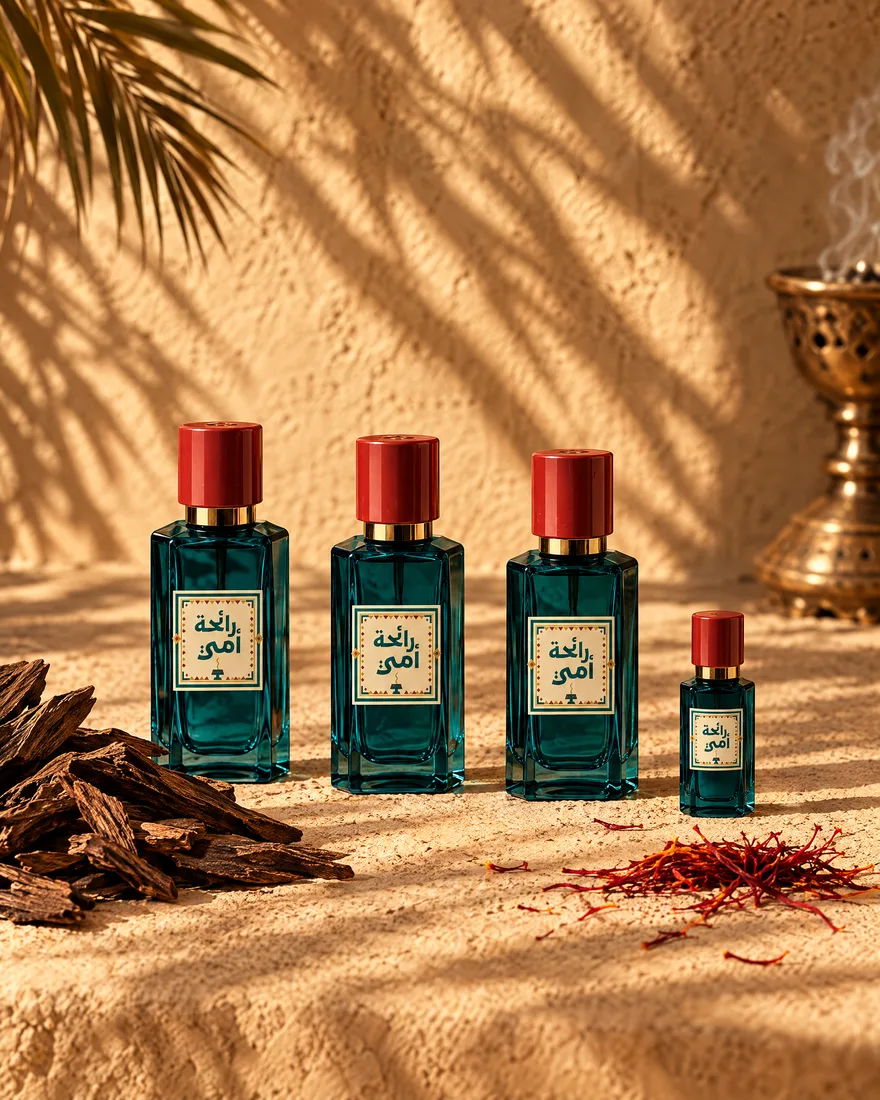
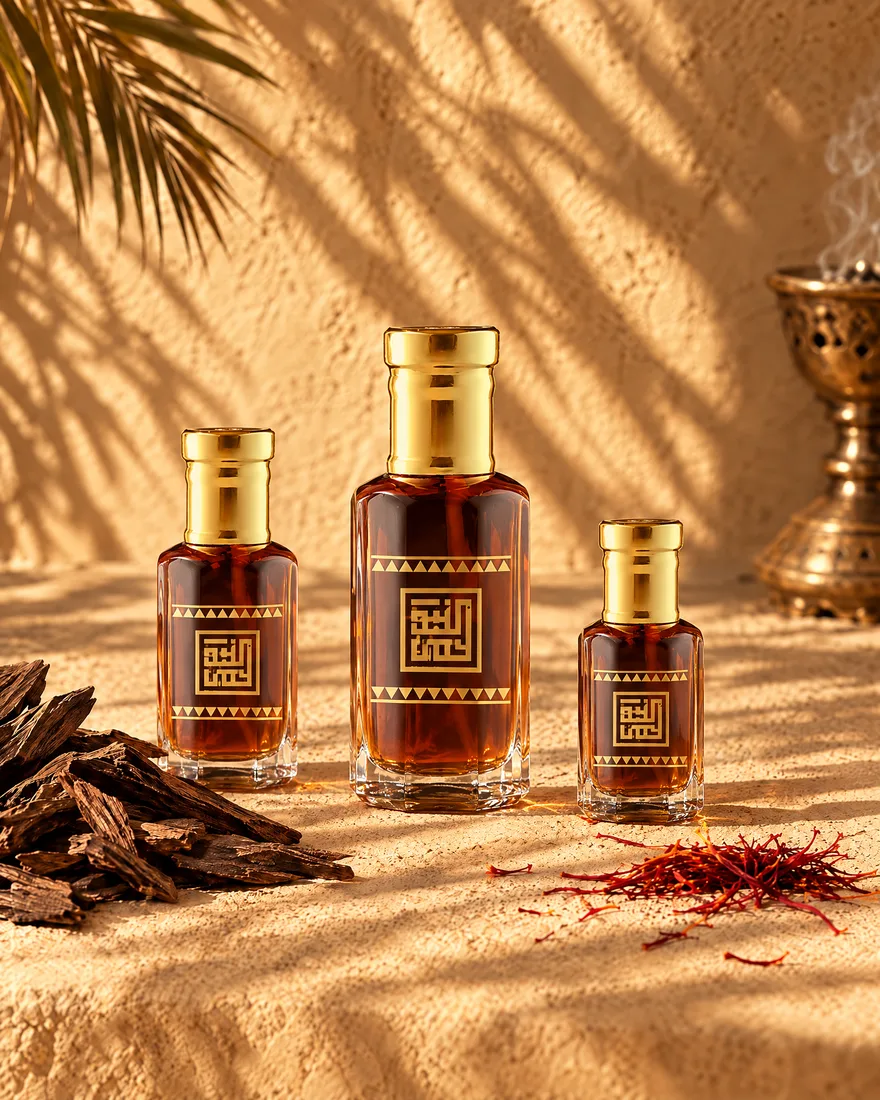
Website: oils shown in classic tola bottles with the brand's gold Najdi print
Claude-Session: https://claude.ai/code/session_01Ey9xQgva5Q7h9dkmJBiBVK

diff --git a/docs/index.html b/docs/index.html
@@ -65,7 +65,7 @@
             <span class="arch__price">من 80 ر.س</span>
           </a>
           <a class="arch" href="#oils" style="--d:3">
-            <span class="arch__img"><img src="assets/products/oil.webp" alt="" width="220" height="275"></span>
+            <span class="arch__img"><img src="assets/products/oil.webp?v=2" alt="" width="220" height="275"></span>
             <span class="arch__name">الأدهان</span>
             <span class="arch__price">من 60 ر.س</span>
           </a>
@@ -171,7 +171,7 @@
       </article>
       <article class="family" id="oils" data-flip>
         <figure class="family__photo">
-          <img src="assets/products/oil.webp" alt="قوارير دهن رائحة أمي الزرقاء بأغطية حمراء" loading="lazy" width="880" height="1100">
+          <img src="assets/products/oil.webp?v=2" alt="تولات دهن رائحة أمي بأغطية ذهبية ونقش نجدي" loading="lazy" width="880" height="1100">
         </figure>
         <div class="family__body">
           <p class="family__index">04</p>
